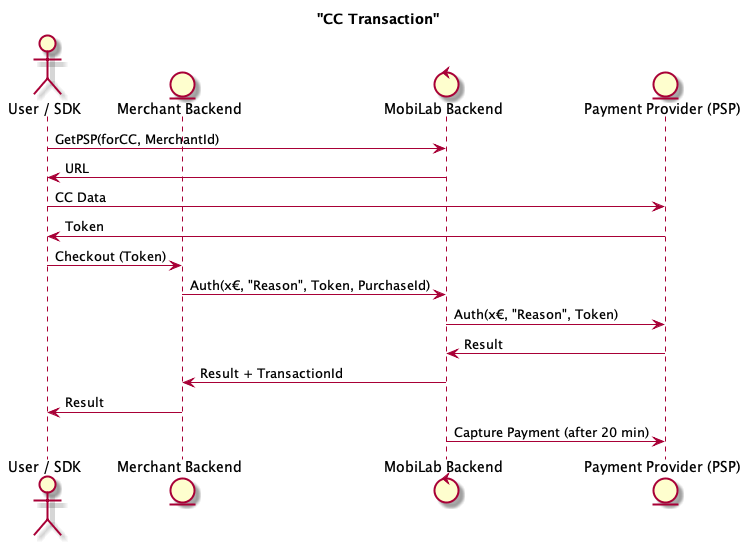
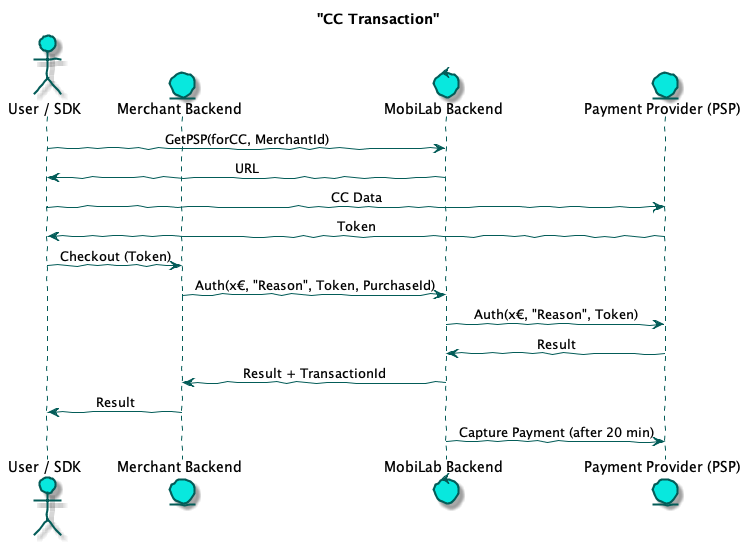
update and style

diff --git a/README.md b/README.md
@@ -5,7 +5,7 @@ Apart from information found in Wiki this repository will contain other document
 
 ## Structure
 
-* [**Wiki**](https://github.com/mobilabsolutions/payment-sdk-wiki-open/wiki) - All documentation related to processes and organisation of the projects as well as documentation that is common to Mobile/Backend/Web
+- [**Wiki**](https://github.com/mobilabsolutions/payment-sdk-wiki-open/wiki) - All documentation related to processes and organisation of the projects as well as documentation that is common to Mobile/Backend/Web
 
 ## Diagrams
 
@@ -15,10 +15,10 @@ Apart from information found in Wiki this repository will contain other document
 
 ![refund](https://raw.githubusercontent.com/mobilabsolutions/payment-sdk-wiki-open/master/out/diagrams/refund_cc/Refund%20CC%20Transaction.png?token=ADzKSAQSAfn-DwG7ir3_JYpXo62FYwdDks5cbpevwA%3D%3D)
 
-![chargeback](https://raw.githubusercontent.com/mobilabsolutions/payment-sdk-wiki-open/master/out/diagrams/chargeback_cc/Refund%20CC%20Transaction.png?token=ADzKSGHQZXT4Y9KqJg1w4jqFwK0Q5fVEks5cbpfYwA%3D%3D)
+![chargeback](https://raw.githubusercontent.com/mobilabsolutions/payment-sdk-wiki-open/master/out/diagrams/chargeback_cc/Chargeback%20CC%20Transaction.png?token=ADzKSGHQZXT4Y9KqJg1w4jqFwK0Q5fVEks5cbpfYwA%3D%3D)
 
 ![sepa](https://raw.githubusercontent.com/mobilabsolutions/payment-sdk-wiki-open/master/out/diagrams/sepa_transaction/Sepa%20Transaction.png?token=ADzKSOlCg_DoZSe1ydrCzpZhxyKJR7oIks5cbpf_wA%3D%3D)
 
-![sepa](https://raw.githubusercontent.com/mobilabsolutions/payment-sdk-wiki-open/master/out/diagrams/sepa_transaction_fail/Failed%20Sepa%20Transaction.png?token=ADzKSFT-8ocYgbaWRmna-U-qSiSKVWscks5cbphgwA%3D%3D)
+![sepa failed](https://raw.githubusercontent.com/mobilabsolutions/payment-sdk-wiki-open/master/out/diagrams/sepa_transaction_fail/Failed%20Sepa%20Transaction.png?token=ADzKSFT-8ocYgbaWRmna-U-qSiSKVWscks5cbphgwA%3D%3D)
 
-![sepa](https://raw.githubusercontent.com/mobilabsolutions/payment-sdk-wiki-open/master/out/diagrams/paypal/Paypal%20Transaction.png?token=ADzKSFPkIlnl_fYj4BgbI6or9zV4PFJNks5cbpiSwA%3D%3D)
+![paypal](https://raw.githubusercontent.com/mobilabsolutions/payment-sdk-wiki-open/master/out/diagrams/paypal/Paypal%20Transaction.png?token=ADzKSFPkIlnl_fYj4BgbI6or9zV4PFJNks5cbpiSwA%3D%3D)
